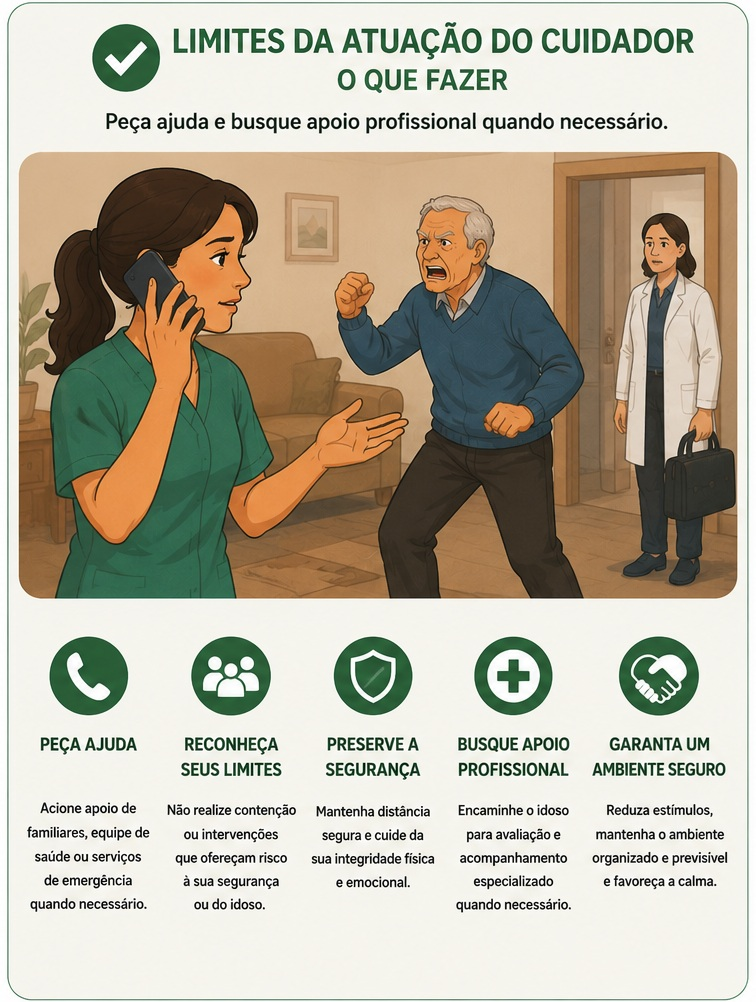
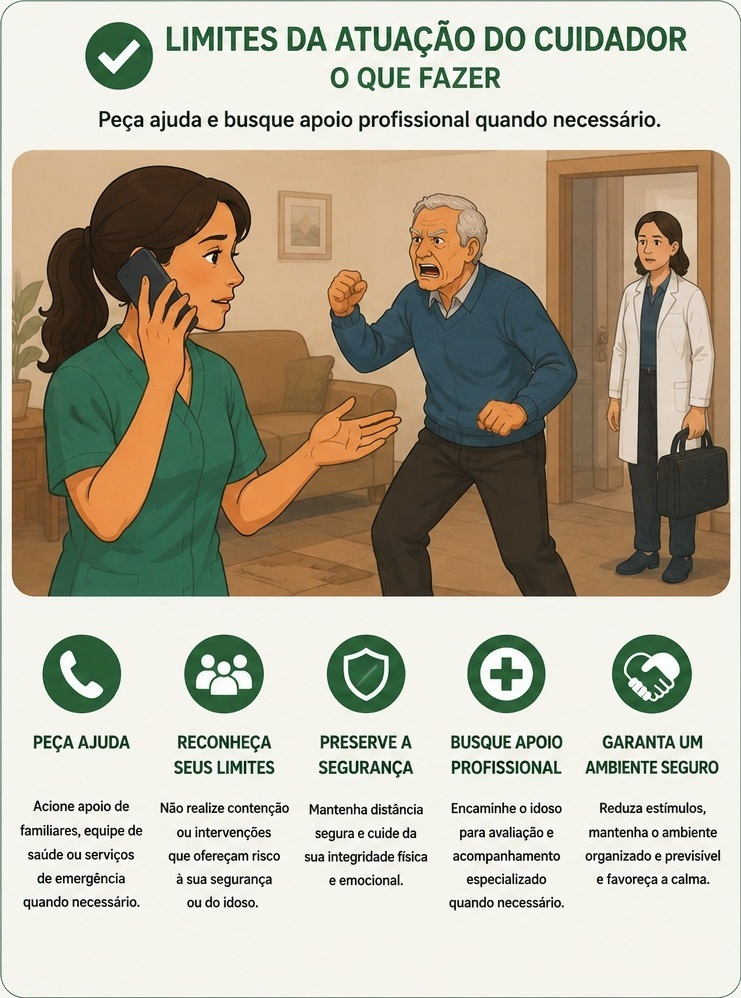
Implementação parte 12: ajuste imagens n verbal

diff --git a/index.html b/index.html
@@ -273,16 +273,6 @@
       </ul>
     </article>
 
-    <img
-      src="images/manejo-nao-verbal-1.jpg"
-      alt="Exemplo de manejo não verbal adequado"
-      class="guide-image"
-      onclick="openPhoto(this)"
-    >
-    <p class="image-caption">
-      Manejo não verbal: reduzir estímulos e evitar confronto.
-    </p>
-
     <article class="card danger">
       <h3>O que evitar</h3>
 
@@ -296,6 +286,16 @@
         <li>Ignorar sinais de escalada do comportamento</li>
       </ul>
     </article>
+  </div>
+
+  <div class="image-pair">
+
+    <img
+      src="images/manejo-nao-verbal-1.jpg"
+      alt="Exemplo de manejo não verbal adequado"
+      class="guide-image"
+      onclick="openPhoto(this)"
+    >
 
     <img
       src="images/manejo-nao-verbal-2.jpg"
@@ -303,10 +303,12 @@
       class="guide-image"
       onclick="openPhoto(this)"
     >
-    <p class="image-caption">
-      Manejo não verbal: confrontação e aumento do risco de agressão.
-    </p>
+
   </div>
+
+  <p class="image-caption">
+    Exemplos de conduta adequada e inadequada durante o manejo não verbal.
+  </p>
 
   <div class="example-box danger-example">
     <h3>Sinais de agravamento</h3>